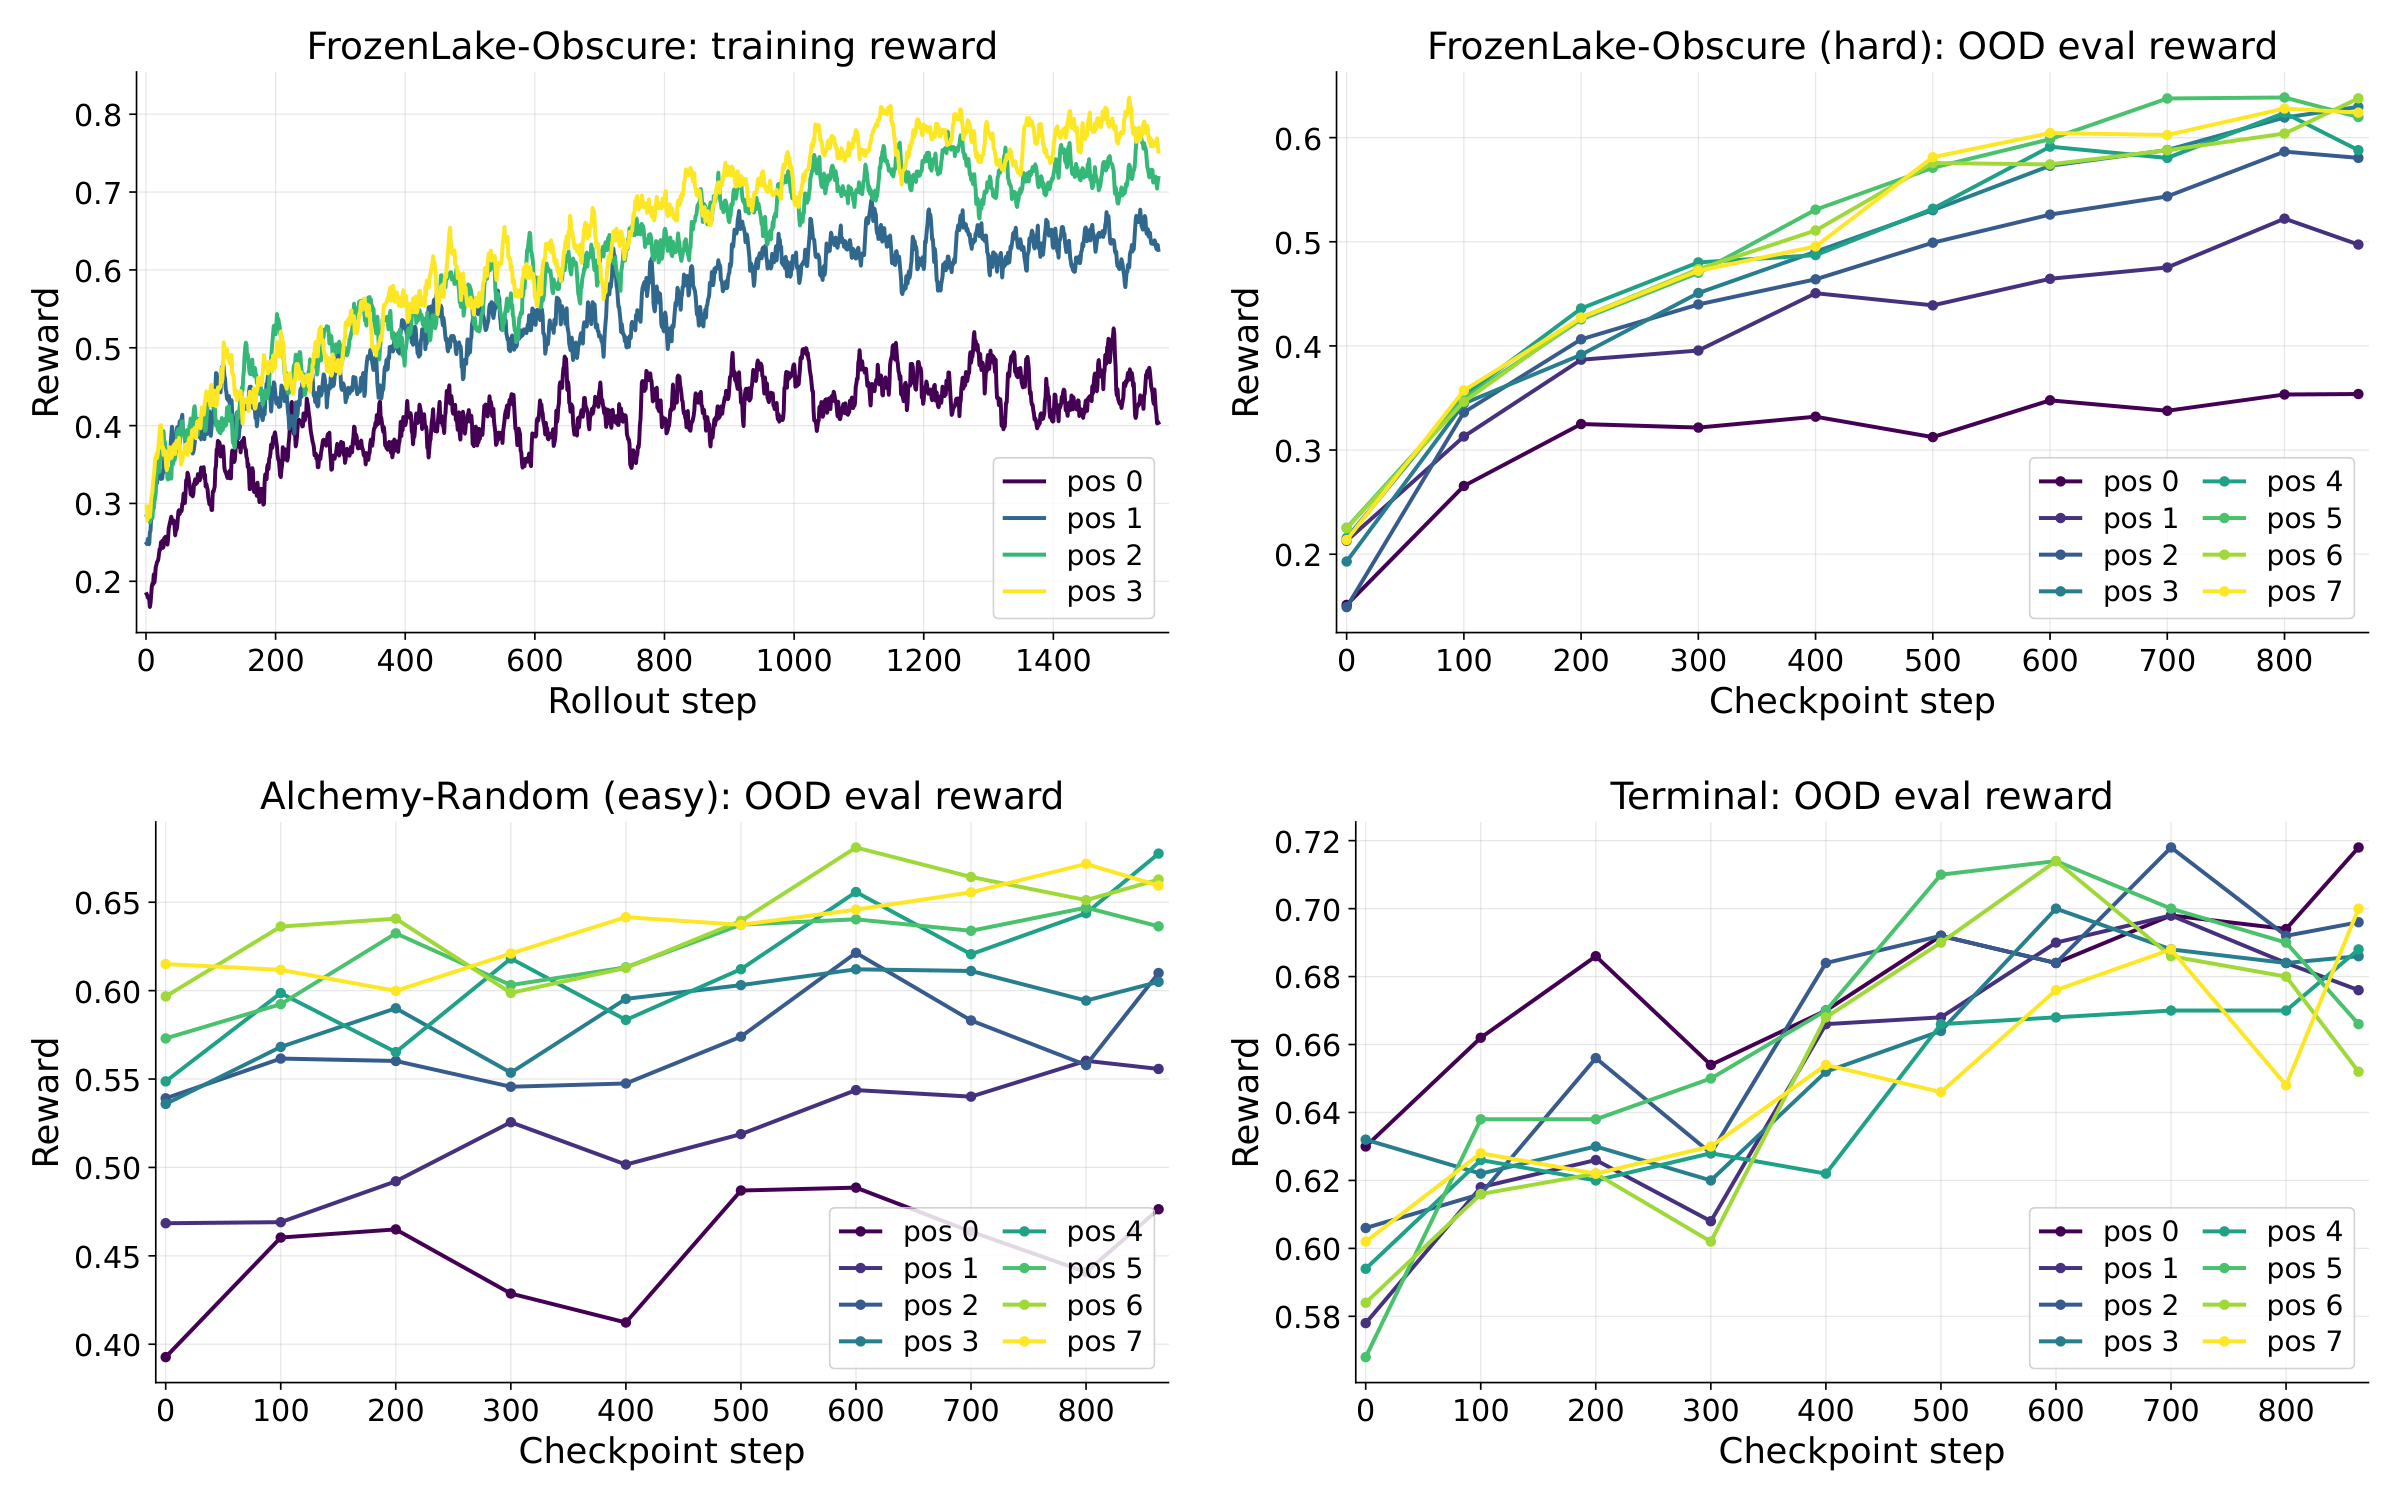
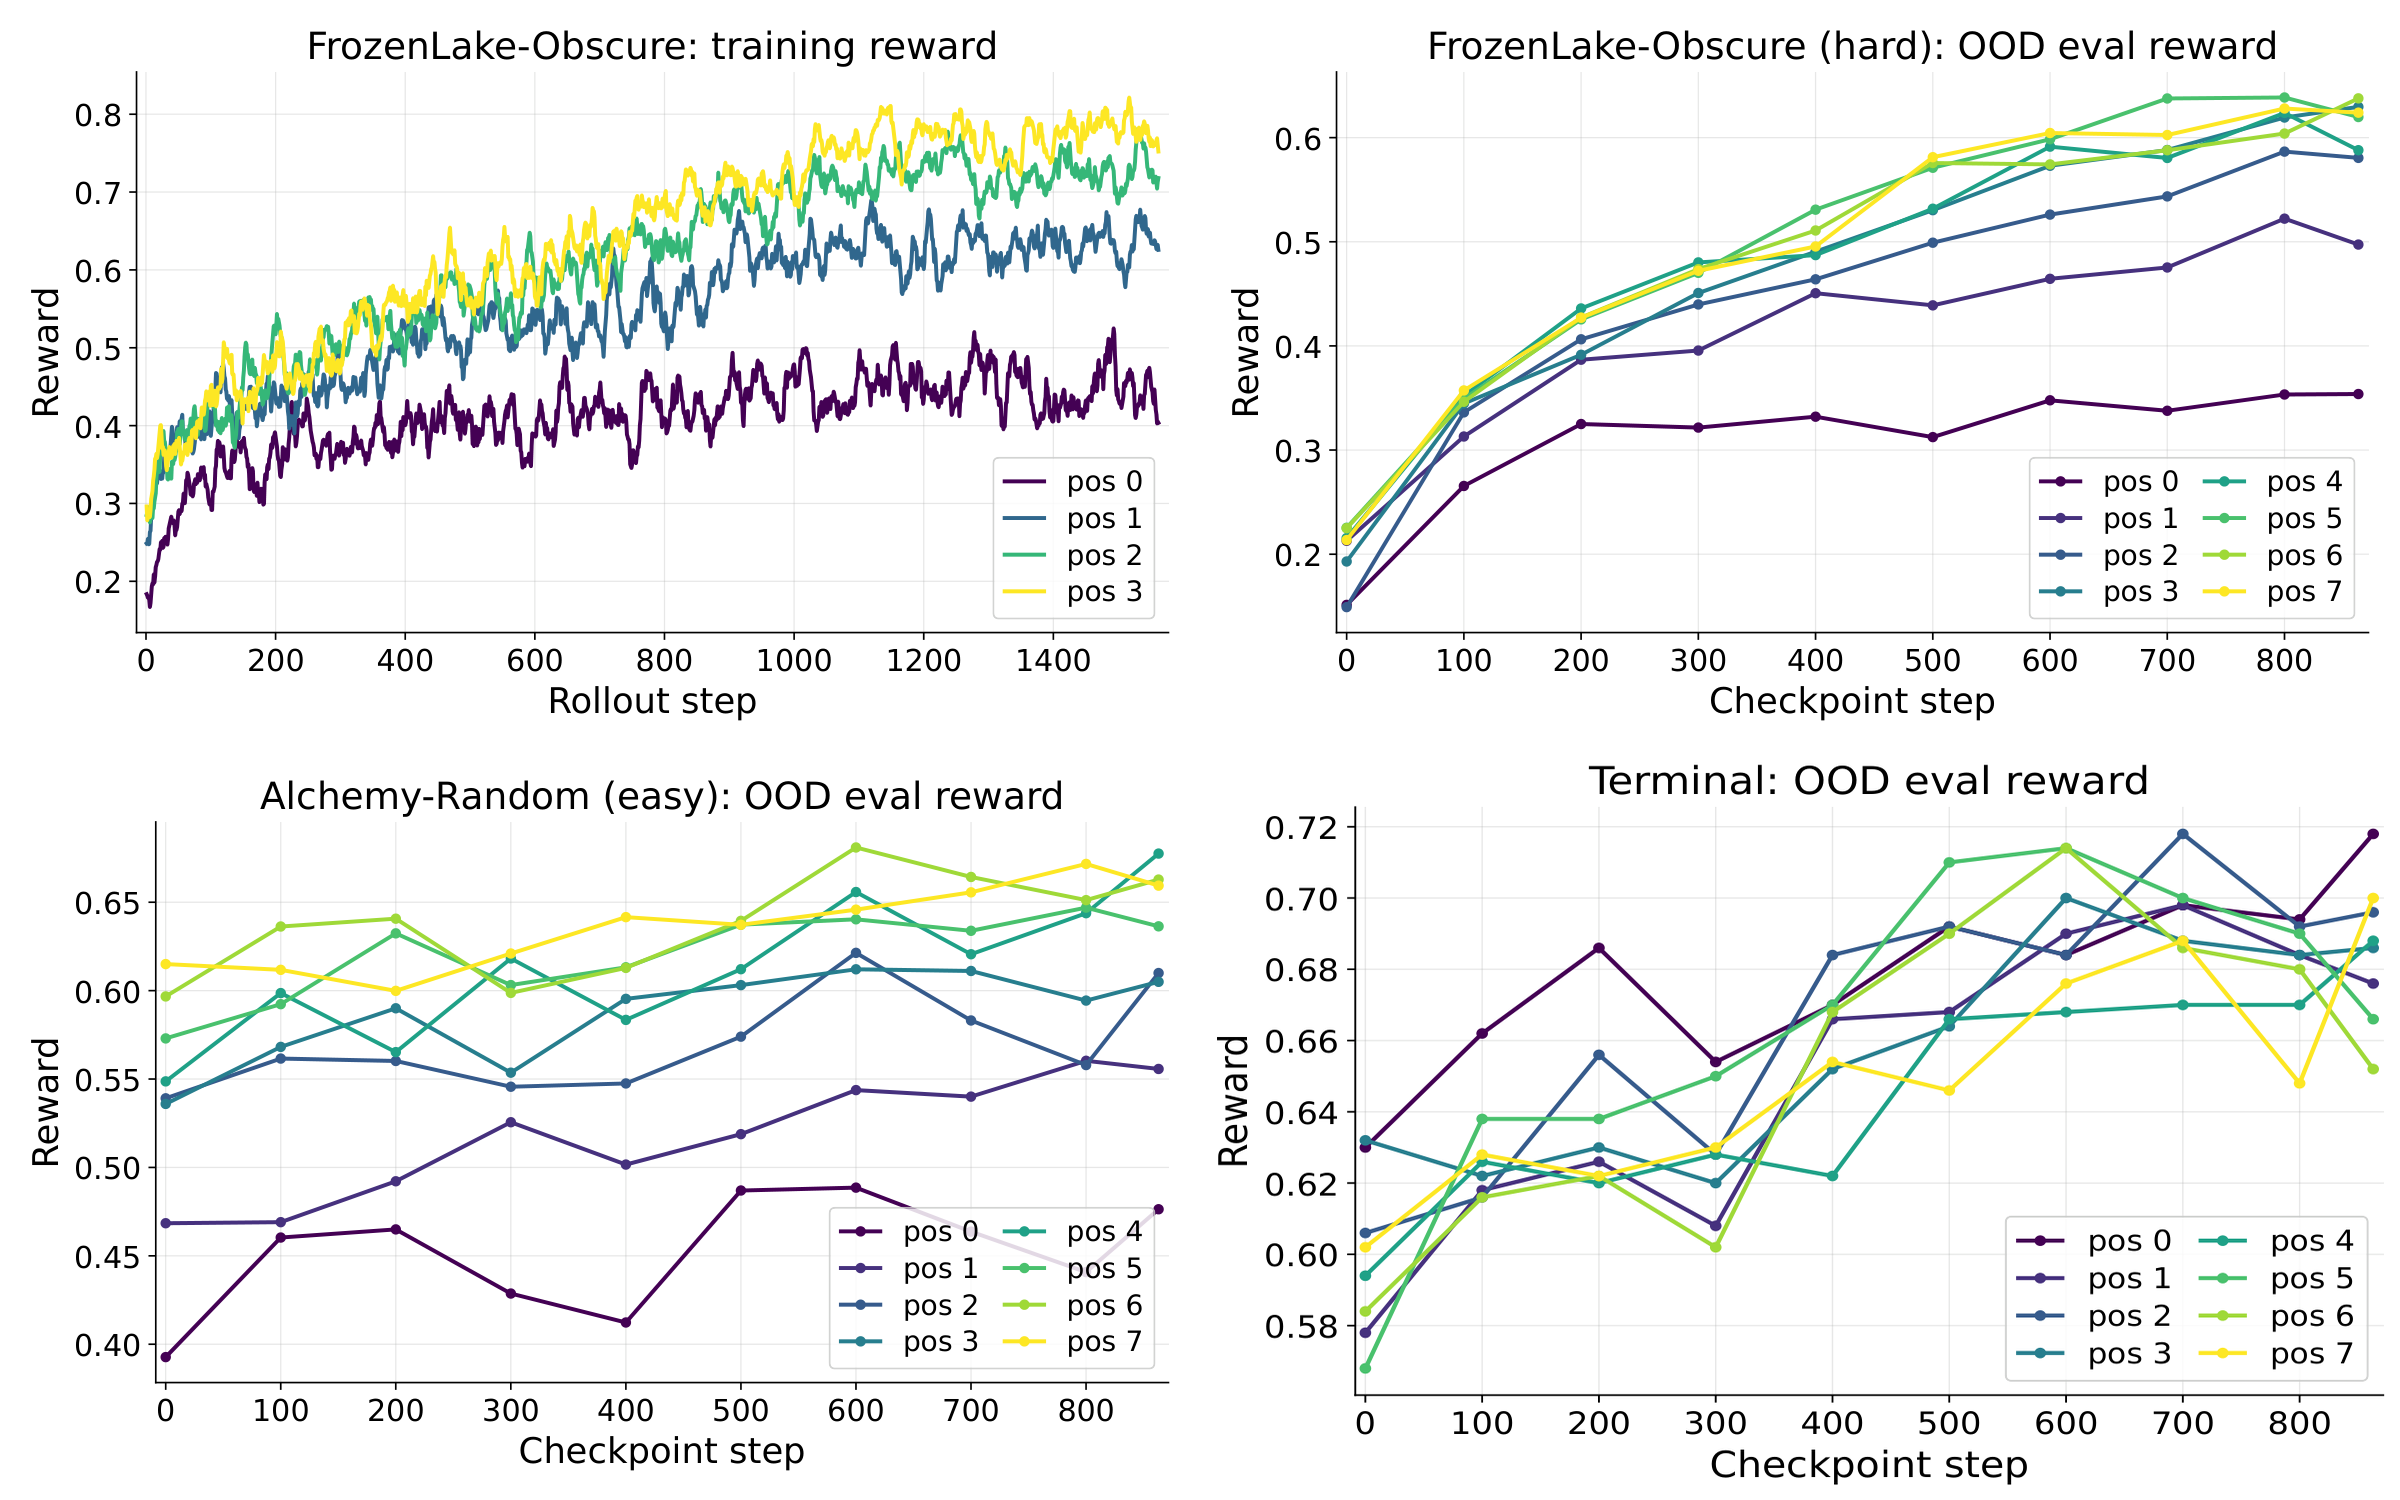
Update Connect the Dots (CoD) README and figures (#582)

Pull request: Update Connect the Dots (CoD) README and figures
Refresh the CoD overview under `examples/research_cod/`: updated intro, new overview and CoD-effect figures, and citation.

diff --git a/examples/research_cod/README.md b/examples/research_cod/README.md
@@ -2,9 +2,11 @@
 
 # Connect the Dots (CoD)
 
-**Training LLMs to "Connect the Dots" in long-lifecycle agentic deployment, with end-to-end RL.** CoD is built on [Trinity-RFT](https://github.com/agentscope-ai/Trinity-RFT): as an LLM agent gets deployed in an environment, it solves a long sequence of tasks while continually exploring the environment, learning from its own experiences, and iteratively self-updating its own context about the environment, so that future tasks, solved conditioned on the updated context, go better and better.
+**Training LLMs to "Connect the Dots" in long-lifecycle agentic deployment, with end-to-end RL.**
 
-CoD groups related tasks into a pack and rolls it out as one long sequence interleaving **solve-task** and **update-context** episodes: after each task, the model updates its context (a short `Hints:` block) from what just happened, and later tasks are solved conditioned on the accumulated context.
+As an LLM-based AI agent gets deployed in an environment, it solves a long sequence of tasks while continuously exploring the environment, learning from its own experiences, and iteratively self-updating its context about the environment, thereby achieving progressively better performance on future tasks conditioned on the updated context.
+
+CoD groups related tasks into a pack and generates a long rollout trajectory interleaving **solve-task** and **update-context** episodes: after each task, the model updates its context (a short `Hints:` block), and later tasks are solved conditioned on the updated context.
 The whole pack is trained end-to-end with RL, with fine-grained credit assignment rewarding context updates that make future tasks easier.
 A trained model's reward rises across pack positions, which is the signature of the elicited CoD meta-capability.
 
@@ -98,9 +100,6 @@ python examples/research_cod/get_frozen_lake_data.py --local_dir examples/resear
 python examples/research_cod/get_alchemy_data.py  --local_dir examples/research_cod/data/alchemy_random --train_size 50000 --test_size 4000 --seed 42
 # Terminal
 python examples/research_cod/get_terminal_data.py --local_dir examples/research_cod/data/terminal --train_size 50000 --test_size 4000 --seed 42 --composite_ratio 0.5
-# Learn2Ask
-python examples/research_cod/exp_plan_learn2ask/data_prepare/1_info_extract_pipeline.py --model_path Qwen/Qwen3.6-27B
-python examples/research_cod/exp_plan_learn2ask/data_prepare/2_build_dataset.py
 ```
 
 **2. Train CoD models.**
@@ -129,7 +128,6 @@ bash examples/research_cod/exp_plan_final/bench/run_eval.sh --train-tasks mixed_
 |---|---|
 | `activated_cod_methods` | CoD methods to enable; the main study uses `["iterative_hint_e2e"]` |
 | `hint_penalty_coef` / `length_penalty_coef` | Length penalty on hints / on a correct solution |
-| `task_reward_decay` | Discount tasks in the pack total |
 | `task_pack_size` / `eval_task_pack_size` | Pack size for training / evaluation |
 
 ---
@@ -151,6 +149,13 @@ After subclassing `AsyncCoDMultiStepWorkflow` (`base_workflow.py`), implement:
 ## Citation
 
 ```bibtex
+@article{chen2026connect,
+  title={Connect the Dots: Training Large Language Models for Long-Lifecycle Agentic Deployment Via Reinforcement Learning},
+  author={Chen, Yanxi and Shi, Weijie and Xie, Yuexiang and Hu, Boyi and Li, Yaliang and Ding, Bolin and Zhou, Jingren},
+  journal={arXiv preprint},
+  year={2026}
+}
+
 @article{pan2025trinity,
   title={Trinity-rft: A general-purpose and unified framework for reinforcement fine-tuning of large language models},
   author={Pan, Xuchen and Chen, Yanxi and Chen, Yushuo and Sun, Yuchang and Chen, Daoyuan and Zhang, Wenhao and Xie, Yuexiang and Huang, Yilun and Zhang, Yilei and Gao, Dawei and others},

diff --git a/examples/research_cod/README_zh.md b/examples/research_cod/README_zh.md
@@ -2,9 +2,11 @@
 
 # Connect the Dots (CoD)
 
-**用端到端 RL 训练 LLM 在长生命周期 agentic 部署中“连点成线”（Connect the Dots）。** CoD 基于 [Trinity-RFT](https://github.com/agentscope-ai/Trinity-RFT) 构建：当 LLM agent 部署到一个环境中，它会连续解决一长串任务，同时不断探索环境、从自身经验中学习、迭代地自我更新关于环境的 context，后续任务在更新后的 context 条件下越解越好。
+**用端到端 RL 训练 LLM 在长生命周期 agentic 部署中“连点成线”（Connect the Dots）。**
 
-CoD 把相关任务打成一个 pack（任务包），作为一条交替进行**解题（solve-task）**与**更新 context（update-context）**回合的长序列展开：每解完一个任务，模型就根据刚发生的事更新 context（一段简短的 `Hints:` 块），靠后的任务在累积的 context 条件下求解。
+当 LLM agent 部署到一个环境中，它会连续解决一长串任务，同时不断探索环境、从自身经验中学习、迭代地自我更新关于环境的 context，后续任务在更新后的 context 条件下越解越好。
+
+CoD 把相关任务打成一个 pack（任务包），作为一条交替进行**解决任务（solve-task）**与**更新 context（update-context）**回合的长序列展开：每解完一个任务，模型就根据刚发生的事更新 context（一段简短的 `Hints:` 块），靠后的任务在累积的 context 条件下求解。
 整个 pack 用 RL 端到端训练，细粒度的信用分配让“使后续任务更好解的 context 更新”获得奖励。
 训练好的模型 reward 随 pack 位置递增，这正是 CoD 元能力被激发出来的标志。
 
@@ -98,9 +100,6 @@ python examples/research_cod/get_frozen_lake_data.py --local_dir examples/resear
 python examples/research_cod/get_alchemy_data.py  --local_dir examples/research_cod/data/alchemy_random --train_size 50000 --test_size 4000 --seed 42
 # Terminal
 python examples/research_cod/get_terminal_data.py --local_dir examples/research_cod/data/terminal --train_size 50000 --test_size 4000 --seed 42 --composite_ratio 0.5
-# Learn2Ask
-python examples/research_cod/exp_plan_learn2ask/data_prepare/1_info_extract_pipeline.py --model_path Qwen/Qwen3.6-27B
-python examples/research_cod/exp_plan_learn2ask/data_prepare/2_build_dataset.py
 ```
 
 **2. CoD 模型训练。**
@@ -130,7 +129,6 @@ bash examples/research_cod/exp_plan_final/bench/run_eval.sh --train-tasks mixed_
 |---|---|
 | `activated_cod_methods` | 启用的 CoD 方法；主实验用 `["iterative_hint_e2e"]` |
 | `hint_penalty_coef` / `length_penalty_coef` | 对 hint / 对正确解答的长度惩罚 |
-| `task_reward_decay` | 对 pack 总奖励中的任务折扣 |
 | `task_pack_size` / `eval_task_pack_size` | 训练 / 评测时的 pack 大小 |
 
 ---
@@ -151,6 +149,13 @@ bash examples/research_cod/exp_plan_final/bench/run_eval.sh --train-tasks mixed_
 
 ## 引用
 ```bibtex
+@article{chen2026connect,
+  title={Connect the Dots: Training Large Language Models for Long-Lifecycle Agentic Deployment Via Reinforcement Learning},
+  author={Chen, Yanxi and Shi, Weijie and Xie, Yuexiang and Hu, Boyi and Li, Yaliang and Ding, Bolin and Zhou, Jingren},
+  journal={arXiv preprint},
+  year={2026}
+}
+
 @article{pan2025trinity,
   title={Trinity-rft: A general-purpose and unified framework for reinforcement fine-tuning of large language models},
   author={Pan, Xuchen and Chen, Yanxi and Chen, Yushuo and Sun, Yuchang and Chen, Daoyuan and Zhang, Wenhao and Xie, Yuexiang and Huang, Yilun and Zhang, Yilei and Gao, Dawei and others},